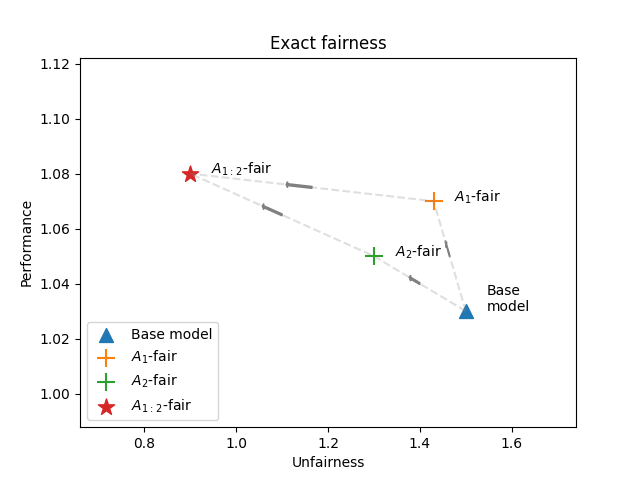
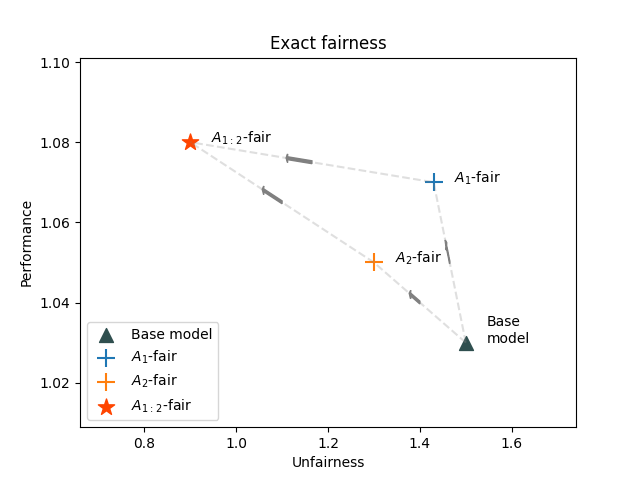
suggested change : graphs, doc, readme

diff --git a/equipy/fairness/_wasserstein.py b/equipy/fairness/_wasserstein.py
@@ -1,5 +1,14 @@
-"""Main Classes to make predictions fair."""
+"""
+Main Classes to make predictions fair.
 
+The module structure is as follows:
+
+- The FairWasserstein base Class implements fairness adjustment related to a single sensitive attribute, using Wasserstein distance for both binary classification and regression tasks. In the case of binary classification, this class supports scores instead of classes. For more details, see E. Chzhen, C. Denis, M. Hebiri, L. Oneto and M. Pontil, "Fair Regression with Wasserstein Barycenters" (NeurIPS20).
+- MultiWasserstein Class extends FairWasserstein for multi-sensitive attribute fairness adjustment in a sequential framework. For more details, see F. Hu, P. Ratz, A. Charpentier, "A Sequentially Fair Mechanism for Multiple Sensitive Attributes" (AAAI24).
+"""
+
+# Authors: Agathe F, Suzie G, Francois H, Philipp R, Arthur C
+# License: BSD 3 clause
 import numpy as np
 from ..utils.checkers import _check_epsilon, _check_epsilon_size, _check_mod, _check_shape, _check_nb_observations
 from ._base import BaseHelper
@@ -100,6 +109,10 @@ class FairWasserstein(BaseHelper):
         Random noise within the range of [-sigma, sigma] is added to the test data to ensure fairness.
         The parameter epsilon controls the trade-off between fairness and accuracy,
         with 0 enforcing full fairness and 1 retaining the original predictions.
+
+        References
+        ----------
+        Evgenii Chzhen, Christophe Denis, Mohamed Hebiri, Luca Oneto and Massimiliano Pontil, "Fair Regression with Wasserstein Barycenters" (NeurIPS20)
 
         Examples
         --------
@@ -244,6 +257,10 @@ class MultiWasserstein():
         Random noise within the range of [-sigma, sigma] is added to the test data to ensure fairness.
         The parameter epsilon is a list, where each element controls the trade-off between fairness and accuracy
         for the corresponding sensitive feature.
+
+        References
+        ----------
+        François Hu, Philipp Ratz, Arthur Charpentier, "A Sequentially Fair Mechanism for Multiple Sensitive Attributes" (AAAI24)
 
         Examples
         --------

diff --git a/equipy/graphs/_arrow_plot.py b/equipy/graphs/_arrow_plot.py
@@ -1,5 +1,9 @@
-"""Arrow plot of the fairness-performance relationship."""
+"""
+Arrow plot of the fairness-performance relationship.
+"""
 
+# Authors: Agathe F, Suzie G, Francois H, Philipp R, Arthur C
+# License: BSD 3 clause
 import numpy as np
 import matplotlib.pyplot as plt
 from sklearn.metrics import mean_squared_error
@@ -88,7 +92,8 @@ def fair_arrow_plot(unfs_dict: dict[str, np.ndarray],
         if (i == 0) & (base_model):
             line.axes.annotate(f"Base\nmodel", xytext=(
                 x[0]+np.min(x)/20, y[0]), xy=(x[0], y[0]), size=10)
-            ax.scatter(x[0], y[0], label="Base model", marker="^", s=100)
+            ax.scatter(x[0], y[0], label="Base model", marker="^", 
+                       color="#1f77b4", s=100)
         elif (i == 1) & (first_label_not_used):
             label = f"$A_{sens[i]}$-fair"
             line.axes.annotate(label, xytext=(
@@ -98,7 +103,8 @@ def fair_arrow_plot(unfs_dict: dict[str, np.ndarray],
             label = f"$A_{1}$" + r"$_:$" + f"$_{i}$-fair"
             line.axes.annotate(label, xytext=(
                 x[i]+np.min(x)/20, y[i]), xy=(x[i], y[i]), size=10)
-            ax.scatter(x[i], y[i], label=label, marker="*", s=150)
+            ax.scatter(x[i], y[i], label=label, marker="*", s=150,
+                       color="#d62728")
         elif (i == 2) & (i < len(x)-1) & (double_label_not_used):
             label = f"$A_{sens[1]}$" + r"$_,$" + f"$_{sens[i]}$-fair"
             line.axes.annotate(label, xytext=(

diff --git a/equipy/metrics/_performance_metrics.py b/equipy/metrics/_performance_metrics.py
@@ -1,5 +1,9 @@
-"""Computation of the performance (i.e. measurement of the similarity between prediction and actual value)."""
+"""
+Computation of the performance (i.e. measurement of the similarity between prediction and actual value).
+"""
 
+# Authors: Agathe F, Suzie G, Francois H, Philipp R, Arthur C
+# License: BSD 3 clause
 import numpy as np
 from typing import Callable
 from sklearn.metrics import mean_squared_error
@@ -15,9 +19,9 @@ def performance(y_true: np.ndarray, y_pred: np.ndarray, metric: Callable = mean_
     y_true : np.ndarray
         Actual values.
     y_pred : np.ndarray
-        Predicted (fair or not) output values.
+        Predicted (fair or not) output values. 
     metric : Callable, (default=mean_squared_error)
-        The metric used to compute the performance, default=sklearn.metrics.mean_square_error.
+        The metric used to compute the performance, which expects y_true then y_pred, default=sklearn.metrics.mean_square_error.
 
     Returns
     -------

diff --git a/equipy/metrics/_fairness_metrics.py b/equipy/metrics/_fairness_metrics.py
@@ -1,5 +1,9 @@
-"""Computation of the fairness (i.e. measurement of the similarity in prediction distribution between different population groups according to their sensitive attributes)."""
+"""
+Computation of the fairness (i.e. measurement of the similarity in prediction distribution between different population groups according to their sensitive attributes).
+"""
 
+# Authors: Agathe F, Suzie G, Francois H, Philipp R, Arthur C
+# License: BSD 3 clause
 import numpy as np
 import warnings
 from scipy.interpolate import interp1d

diff --git a/equipy/graphs/_density_plot.py b/equipy/graphs/_density_plot.py
@@ -1,5 +1,9 @@
-"""Representation of the probability distribution of predictions as a function of the value of the sensitive attribute. """
+"""
+Representation of the probability distribution of predictions as a function of the value of the sensitive attribute. 
+"""
 
+# Authors: Agathe F, Suzie G, Francois H, Philipp R, Arthur C
+# License: BSD 3 clause
 import pandas as pd
 import matplotlib.pyplot as plt
 import seaborn as sns

diff --git a/equipy/fairness/_base.py b/equipy/fairness/_base.py
@@ -1,5 +1,9 @@
-"""Base class containing all necessary calculations to make predictions fair."""
+"""
+Base class containing all necessary calculations to make predictions fair.
+"""
 
+# Authors: Agathe F, Suzie G, Francois H, Philipp R, Arthur C
+# License: BSD 3 clause
 from statsmodels.distributions.empirical_distribution import ECDF
 import numpy as np
 from ..metrics._fairness_metrics import EQF

diff --git a/equipy/graphs/_waterfall_plot.py b/equipy/graphs/_waterfall_plot.py
@@ -1,5 +1,9 @@
-"""Representation of sequential gain in fairness."""
+"""
+Representation of sequential gain in fairness.
+"""
 
+# Authors: Agathe F, Suzie G, Francois H, Philipp R, Arthur C
+# License: BSD 3 clause
 import matplotlib.pyplot as plt
 import numpy as np
 import re

diff --git a/docs/index.rst b/docs/index.rst
@@ -7,6 +7,11 @@
 Welcome to EquiPy's documentation!
 ==================================
 
+**EquiPy** is a library implementing sequential fairness on the predicted outputs of Machine Learning models, when dealing with multiple sensitive attributes.
+The library contains a set of classes that implement the methodology and a module for visualizations.
+
+Under the hood, we use a post-processing method to progressively achieve fairness accross a set of sensitive features by leveraging multi-marginal Wasserstein barycenters, which extends the standard notion of Strong Demographic Parity to the case with multiple sensitive characteristics. This approach seamlessly extends to approximate fairness, enveloping a framework accommodating the trade-off between performance and unfairness. You can find the technical details in the technical paper https://arxiv.org/abs/2309.06627 (forthcoming at AAAI 2024).
+
 .. toctree::
    :maxdepth: 2
    :caption: Contents:

diff --git a/README.rst b/README.rst
@@ -11,7 +11,7 @@ to approximate fairness, enveloping a framework accommodating the trade-off betw
 
 The project was started in 2023 by François Hu, Philipp Ratz, Suzie Grondin, Agathe Fernandes Machado and Arthur Charpentier, following the release of this paper "A Sequentially Fair Mechanism for Multiple Sensitive Attributes" (https://arxiv.org/pdf/2309.06627.pdf), written by François Hu, Philipp Ratz and Arthur Charpentier.
 
-Website : https://equilibration.github.io/equipy/
+For additional details, you can visit the dedicated **EquiPy** website https://equilibration.github.io/equipy/.
 
 Installation
 ------------

diff --git a/docs/equipy.rst b/docs/equipy.rst
@@ -10,11 +10,3 @@ Subpackages
    equipy.fairness
    equipy.graphs
    equipy.metrics
-
-Module contents
----------------
-
-.. automodule:: equipy
-   :members:
-   :undoc-members:
-   :show-inheritance:
